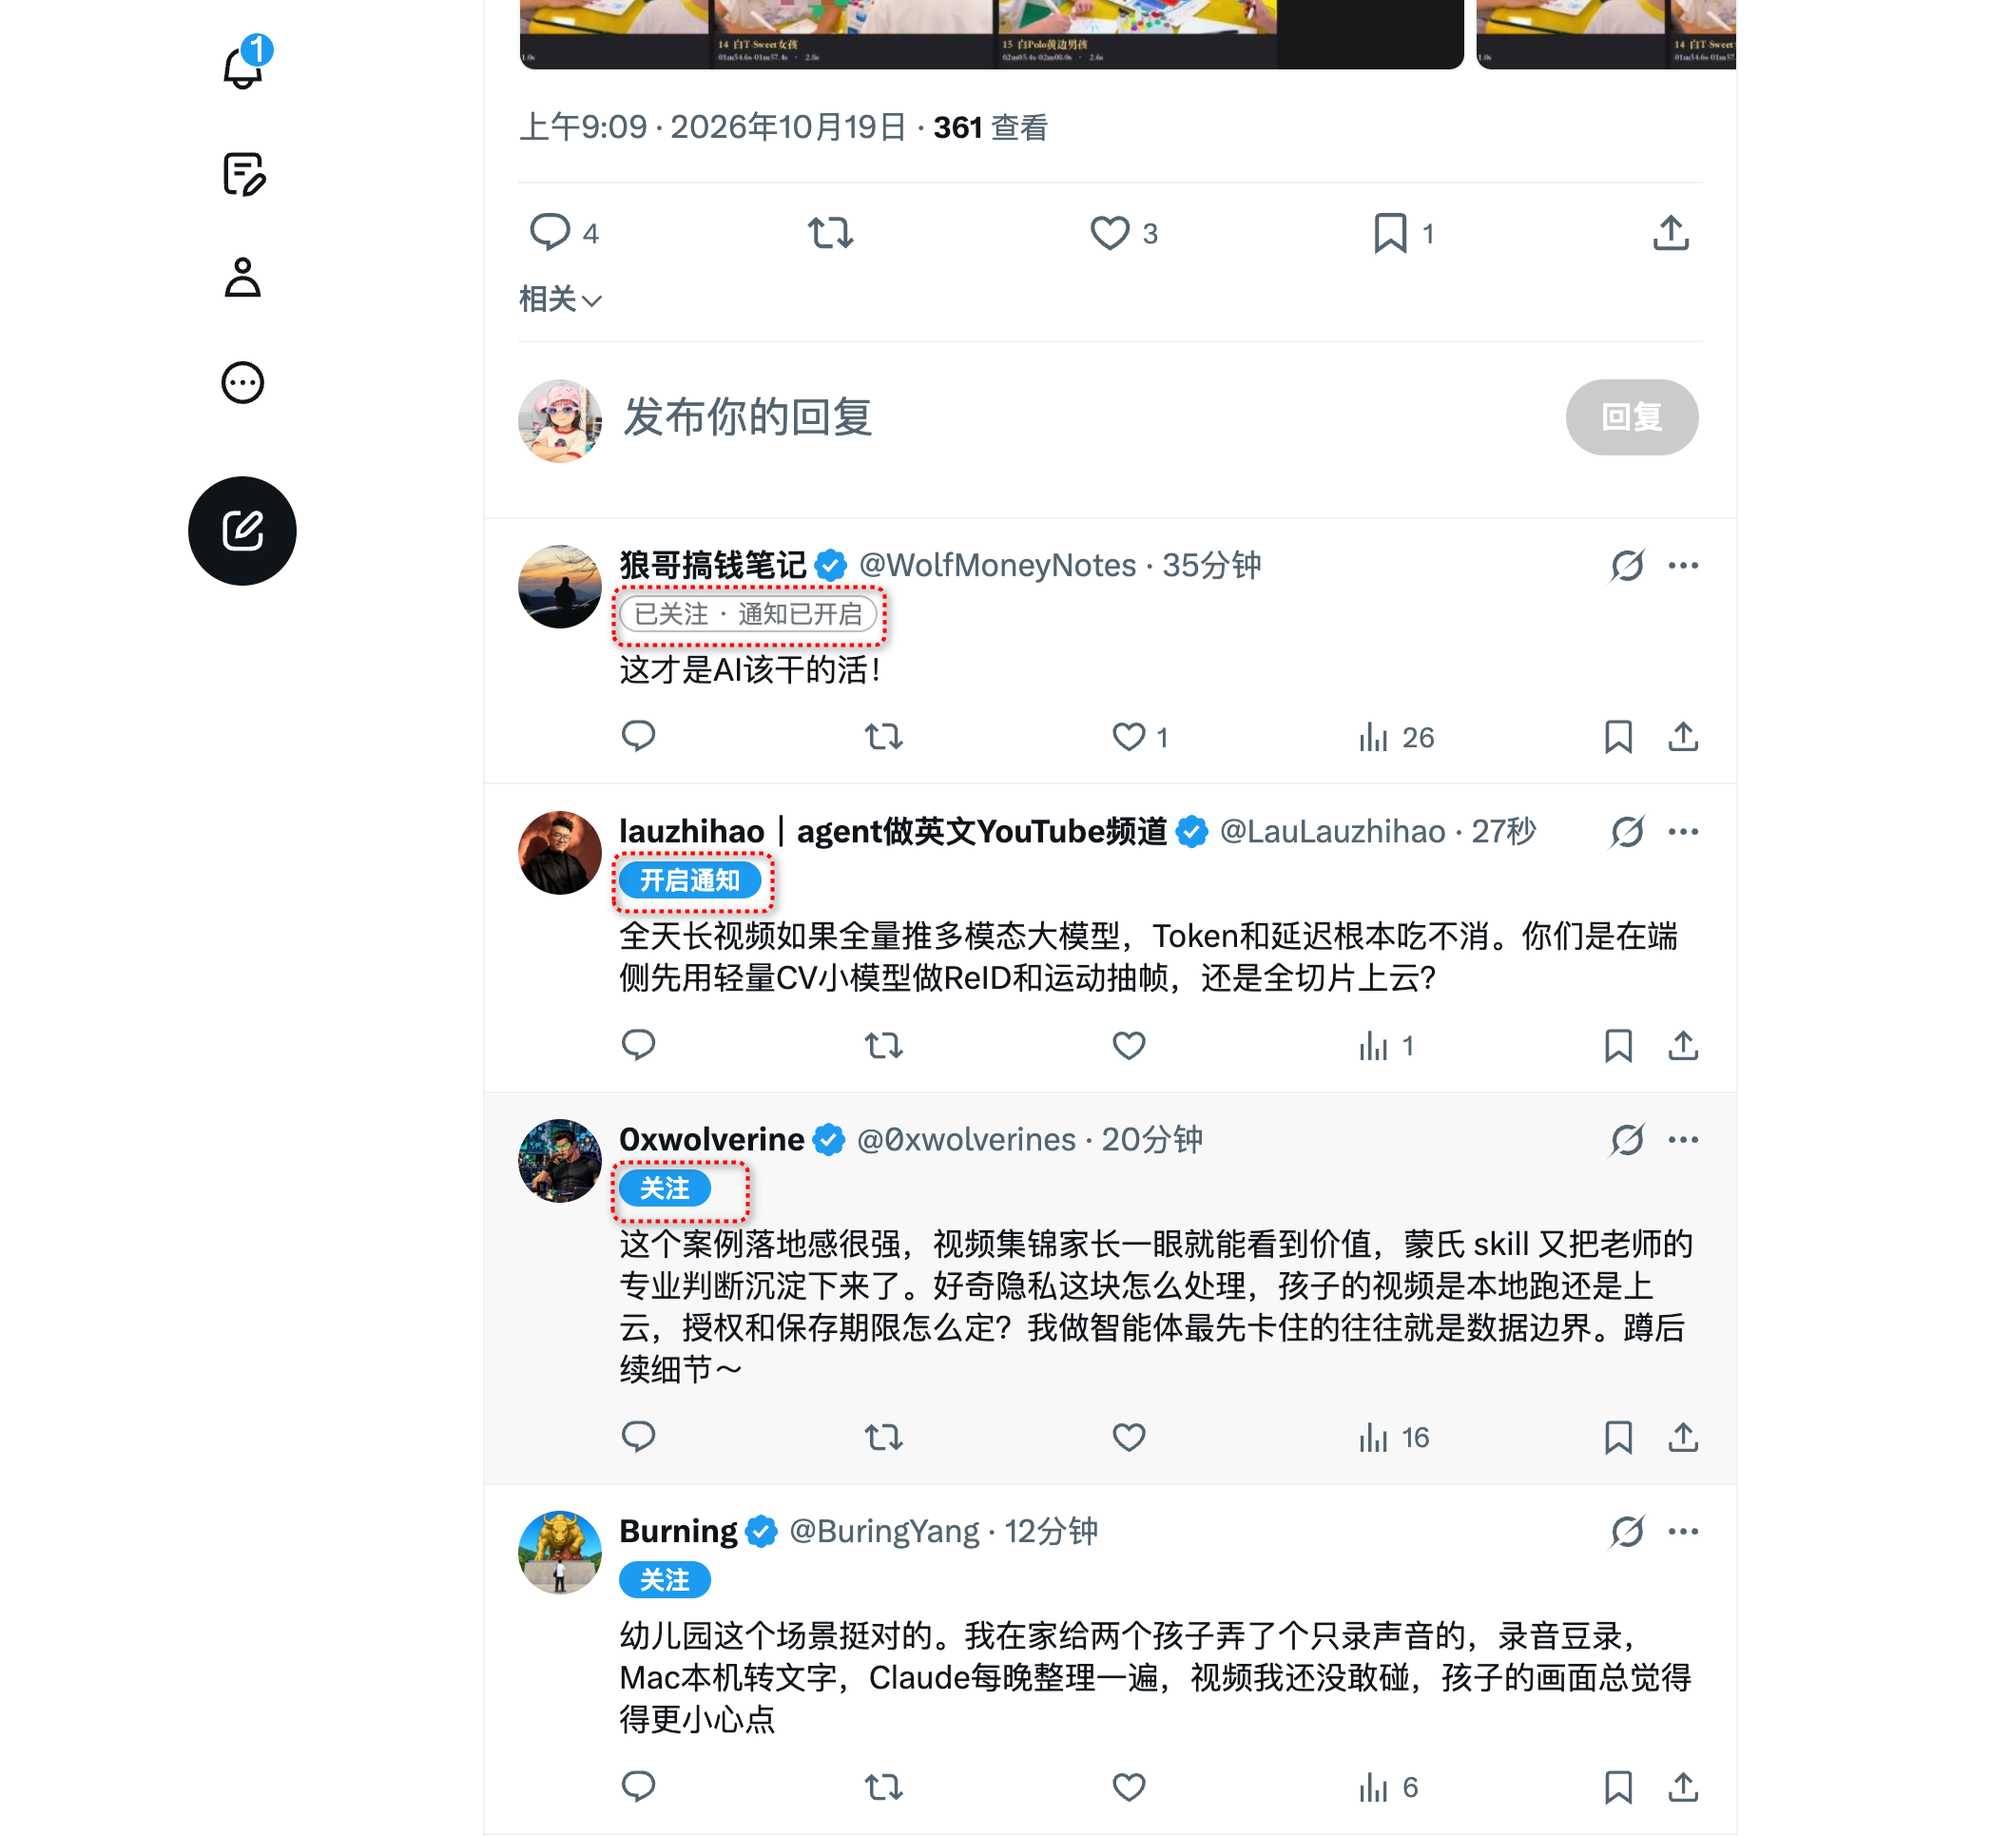
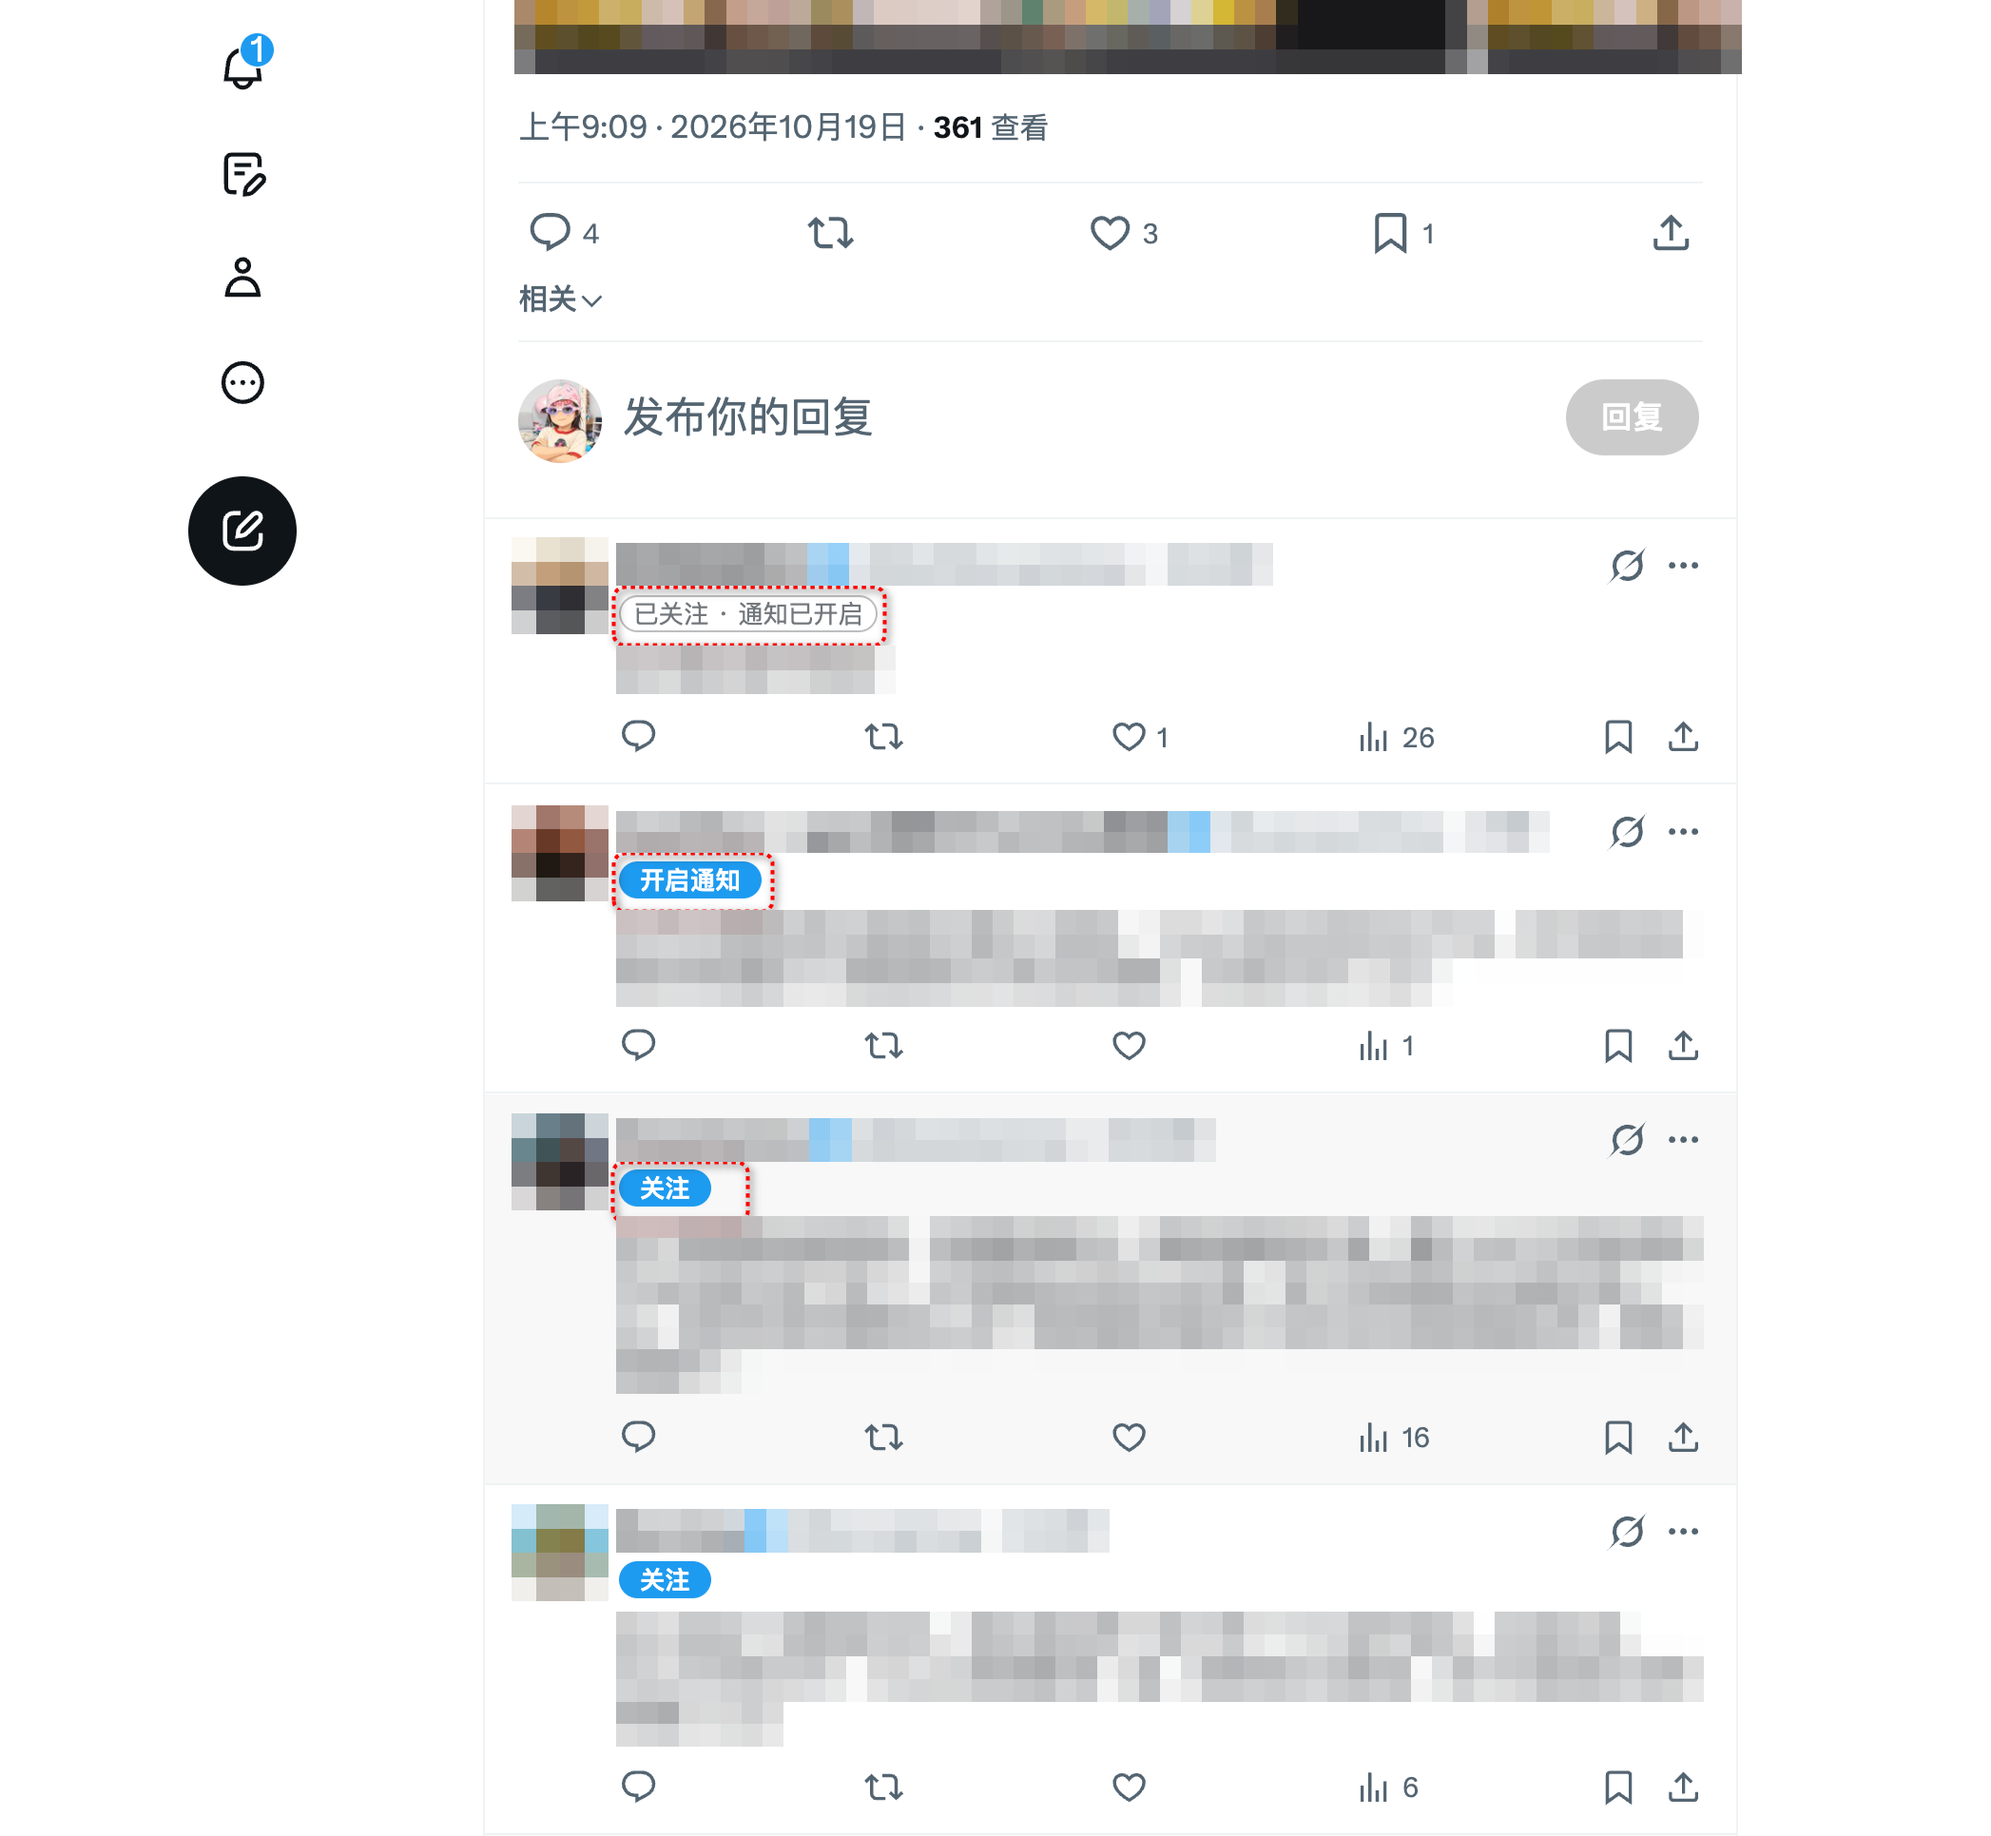
docs: 添加 MIT 许可证并为截图中的第三方账号打码
- 新增 LICENSE（MIT），README 增加许可证一节
- timeline、export-menu、quick-follow、user-notes 中其他账号的头像、名称、正文与主页信息改为像素化；list-migration 补充遮挡私密列表名
- 删除 README 已不再引用的 4 张旧截图
- README 说明作者标签同样会读取作者信息

diff --git a/README.md b/README.md
@@ -42,7 +42,7 @@
 
 ## 截图
 
-完整设置面板为三倍像素 PNG；作者标签与帖子热度、Claude 风格示例为两倍像素图片，点击可查看原图。
+完整设置面板为三倍像素 PNG；作者标签与帖子热度、Claude 风格示例为两倍像素图片，点击可查看原图。真实页面截图中其他账号的头像、名称和内容已打码。
 
 ### 作者标签与帖子热度
 
@@ -105,7 +105,7 @@
 
 - 扩展只声明 `storage` 权限及 `x.com`、`twitter.com` 网站访问权限。
 - 开关使用 Chrome 同步存储；备注和作者信息缓存使用本地扩展存储。Chrome 开启同步时，开关可能随浏览器账号同步。
-- 作者简介或快速关注启用时，会使用当前 X 登录会话读取视口附近作者的信息，缓存约 12 小时，最多 800 个作者；默认快速关注开启、简介关闭。
+- 作者简介、快速关注或作者标签（粉丝数、大 V、老号）启用时，会使用当前 X 登录会话读取视口附近作者的信息，缓存约 12 小时，最多 800 个作者；默认快速关注和作者标签开启、简介关闭。
 - 点击「关注」会向 X 提交真实关注请求，确认关注成功后开启对方的发帖通知；全部成功后显示「已关注 · 通知已开启」。通知未确认开启时显示「开启通知」，点击可重试，刷新页面后仍保留重试入口。
 - 列表迁移也会修改真实列表，开始前会显示源、目标相关操作的确认提示。
 - 点击后会重新核对账号与关注关系再提交；通知重试只更新通知设置，不会重复提交关注。
@@ -139,4 +139,8 @@ npm test
 
 ## 第三方代码
 
-`lib/html-to-image.js` 来自 html-to-image 1.11.13。已附带 [MIT 许可证](lib/html-to-image.LICENSE)，对应[上游许可证](https://github.com/bubkoo/html-to-image/blob/v1.11.13/LICENSE)。项目自身代码尚未指定许可证。
+`lib/html-to-image.js` 来自 html-to-image 1.11.13。已附带 [MIT 许可证](lib/html-to-image.LICENSE)，对应[上游许可证](https://github.com/bubkoo/html-to-image/blob/v1.11.13/LICENSE)。
+
+## 许可证
+
+本项目代码以 [MIT 许可证](LICENSE) 发布。
